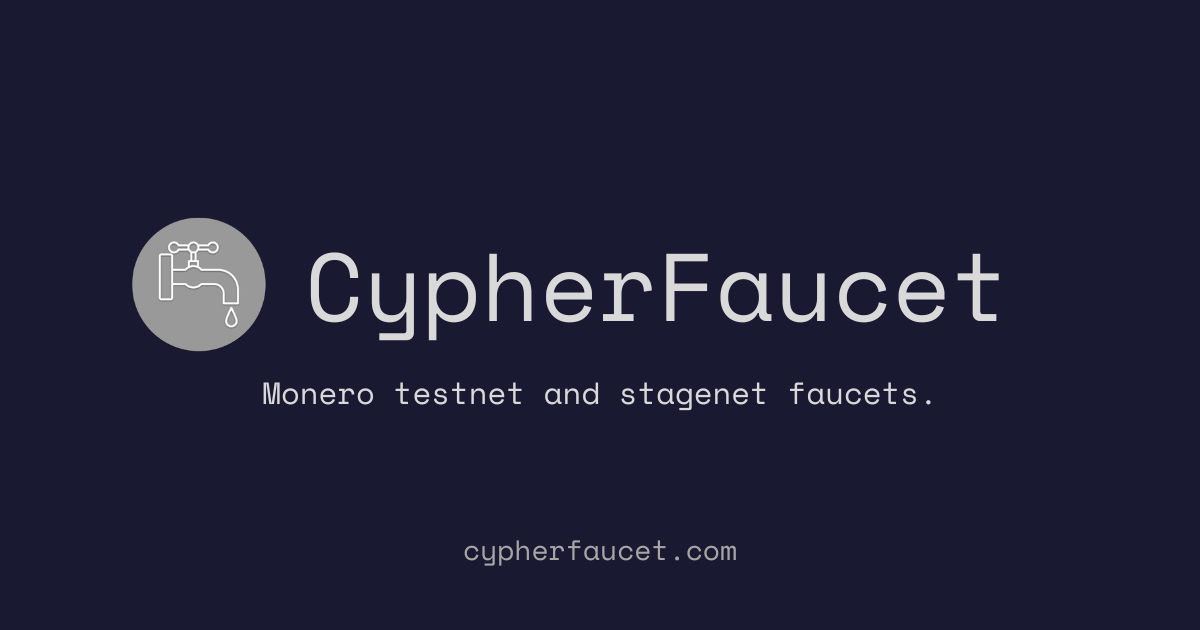
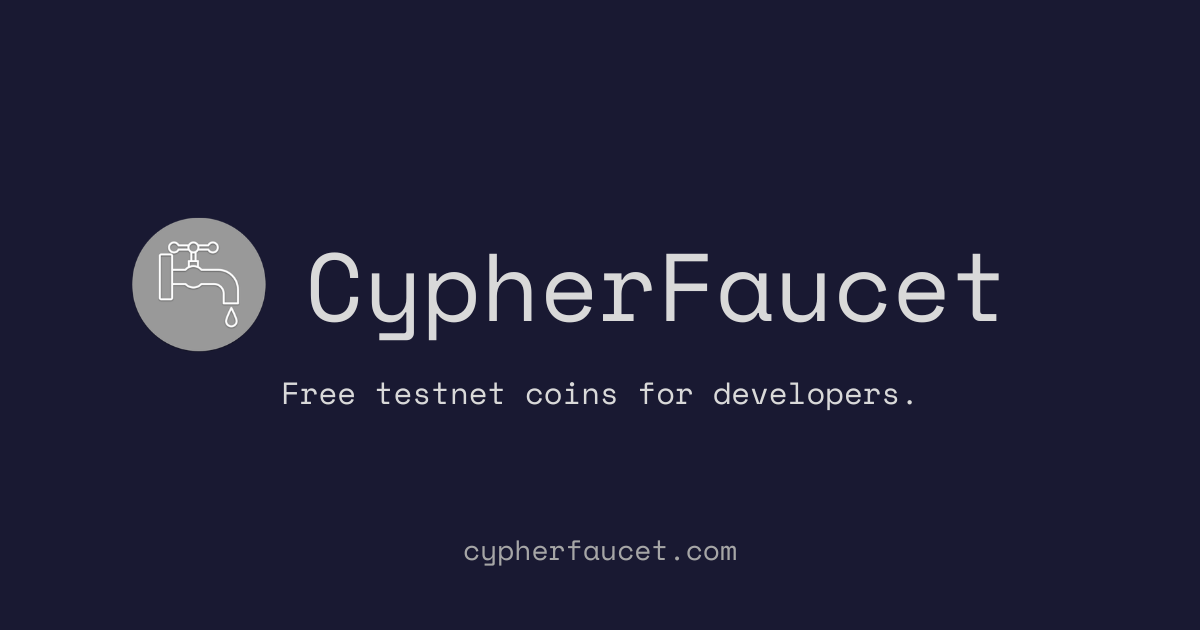
Update config options

Changed region(s): [[0.2158, 0.6032, 0.7708, 0.6635]]

diff --git a/config.example.php b/config.example.php
@@ -41,19 +41,30 @@ return [
     ],
 
     // Public link to your source, shown in the footer to satisfy AGPL section 13.
-    'source_url' => 'https://github.com/youruser/cypherfaucet',
+    'source_url' => 'https://github.com/Tech1k/cypherfaucet',
 
-    // Per-net "return unused coins" addresses, shown in the donate card and the
-    // out-of-coins message. Leave blank to hide the card.
+    // Testnet "return unused coins" addresses, shown in the recycle card and the
+    // out-of-coins message. Leave blank to hide the card. The t-prefix (tltc /
+    // tbtc) marks these as testnet, to keep them distinct from the mainnet
+    // donation addresses below.
     'donate_stagenet' => '',
     'donate_testnet'  => '',
-    'donate_ltc'      => '',
-    'donate_btc'      => '',
+    'donate_tltc'     => '',
+    'donate_tbtc'     => '',
 
-    // Optional: a mainnet XMR address enables a low-key "support the faucet"
-    // entry in the FAQ. Leave blank to keep donations off. The two extras below
-    // are shown only when mainnet_donate is also set.
-    'mainnet_donate'    => '',
-    'mainnet_openalias' => '', // e.g. '[email redacted]' (enable DNSSEC for the verified check)
-    'mainnet_qr'        => '', // e.g. '/assets/images/monero-qr.png' (your own QR; gitignored)
+    // Optional mainnet "support the faucet" donation addresses, shown as a
+    // low-key FAQ entry on each faucet. All blank by default, so the public code
+    // asks for nothing; set a coin's address to enable just that coin's entry.
+    // Each coin also takes an optional QR image path (your own).
+    'mainnet_xmr'    => '',
+    'mainnet_xmr_qr' => '', // e.g. '/assets/images/monero-qr.png'
+    'mainnet_ltc'    => '',
+    'mainnet_ltc_qr' => '',
+    'mainnet_btc'    => '',
+    'mainnet_btc_qr' => '',
+
+    // OpenAlias handle, shared across coins: a single FQDN resolves to the right
+    // address per coin via its DNS TXT records (enable DNSSEC for the verified
+    // check). Shown on every faucet whose mainnet address is set above.
+    'mainnet_openalias' => '', // e.g. '[email redacted]'
 ];

diff --git a/core-faucet.php b/core-faucet.php
@@ -73,9 +73,18 @@ define('TURNSTILE_SITEKEY', $config['turnstile_sitekey'] ?? '');
 $source_url    = $config['source_url'] ?? 'https://github.com/Tech1k/cypherfaucet';
 $expected_host = $config['expected_host'] ?? null; // optional captcha host pin
 
-// Per-coin "return unused coins" address, from config (donate_ltc / donate_btc).
-$donate_addr = $config["donate_{$coin}"] ?? '';
+// Per-coin "return unused testnet coins" address (donate_tltc / donate_tbtc),
+// falling back to the legacy donate_ltc / donate_btc keys if still in config.
+$donate_addr = $config['donate_' . strtolower($currency)] ?? $config["donate_{$coin}"] ?? '';
 $donate_safe = htmlspecialchars($donate_addr, ENT_QUOTES, 'UTF-8'); // display; keep raw for comparison
+
+// Optional mainnet "support the faucet" address for this coin (mainnet_ltc /
+// mainnet_btc) plus an optional QR, and a shared OpenAlias handle that resolves
+// per coin. Empty by default so the public code asks for nothing; set in
+// config.php to show a low-key FAQ entry.
+$mainnet_addr      = $config["mainnet_{$coin}"] ?? '';
+$mainnet_qr        = $config["mainnet_{$coin}_qr"] ?? '';
+$mainnet_openalias = $config['mainnet_openalias'] ?? '';
 
 // Bitcoin Core JSON-RPC. Creds from config (e.g. ltc_rpc_user / ltc_rpc_pass);
 // bind the daemon to 127.0.0.1. If the daemon has more than one wallet loaded
@@ -615,6 +624,22 @@ $height_display = "<span style=\"color: {$dot};\">&#9679;</span> " . $height_dis
                     <p>This can happen for many reasons. Usually, the captcha could fail if you're using a VPN or ad blocker, unsupported or out-of-date browser.</p>
                     <h3>What's the catch?</h3>
                     <p>There is no catch! I created this and my other faucets to give back to the community.</p>
+<?php if ($mainnet_addr !== '') {
+    $mainnet_safe    = htmlspecialchars($mainnet_addr, ENT_QUOTES, 'UTF-8');
+    $mainnet_qr_safe = htmlspecialchars($mainnet_qr, ENT_QUOTES, 'UTF-8');
+    $openalias_safe  = htmlspecialchars($mainnet_openalias, ENT_QUOTES, 'UTF-8');
+    $mainnet_ticker  = substr($currency, 1); // tLTC -> LTC, tBTC -> BTC
+?>
+                    <h3>Can I support the faucet?</h3>
+                    <p>This faucet is free and I run it to give back. If it has saved you time and you would like to help with server costs, <b>mainnet</b> <?php echo $mainnet_ticker; ?> donations are welcome and entirely optional:</p>
+<?php if ($mainnet_openalias !== '') { ?>
+                    <p>OpenAlias: <code class="mono"><?php echo $openalias_safe; ?></code> <button type="button" class="copybtn" data-copy="<?php echo $openalias_safe; ?>">Copy</button></p>
+<?php } ?>
+                    <p><code class="mono"><?php echo $mainnet_safe; ?></code> <button type="button" class="copybtn" data-copy="<?php echo $mainnet_safe; ?>">Copy</button></p>
+<?php if ($mainnet_qr !== '') { ?>
+                    <p><img src="<?php echo $mainnet_qr_safe; ?>" alt="<?php echo $mainnet_ticker; ?> donation QR code" style="width: 180px; max-width: 100%; height: auto; margin-top: 8px;"></p>
+<?php } ?>
+<?php } ?>
                 </div>
             </div>
             <br/>

diff --git a/xmr-faucet.php b/xmr-faucet.php
@@ -83,9 +83,11 @@ $source_url = $config['source_url'] ?? 'https://github.com/Tech1k/cypherfaucet';
 // Optional mainnet XMR address for the "support the faucet" FAQ entry. Empty by
 // default, so the public code doesn't ask for donations; set it in config.php
 // on your own deployment to enable the entry.
-$mainnet_donate = $config['mainnet_donate'] ?? '';
-$mainnet_openalias = $config['mainnet_openalias'] ?? ''; // optional OpenAlias handle (e.g. [email redacted])
-$mainnet_qr = $config['mainnet_qr'] ?? '';               // optional path to a donation QR image
+// New keys are mainnet_xmr* (with the legacy mainnet_donate/qr read as a
+// fallback). OpenAlias is shared across all coins, so it stays mainnet_openalias.
+$mainnet_donate = $config['mainnet_xmr'] ?? $config['mainnet_donate'] ?? '';
+$mainnet_openalias = $config['mainnet_openalias'] ?? ''; // shared OpenAlias handle, resolves per coin (e.g. [email redacted])
+$mainnet_qr = $config['mainnet_xmr_qr'] ?? $config['mainnet_qr'] ?? '';                       // optional path to a donation QR image
 
 // Per-net "return unused coins" address, from config (donate_stagenet /
 // donate_testnet). Empty when unset, so the public code ships no addresses; the

diff --git a/index.php b/index.php
@@ -68,7 +68,7 @@ $faucets = [
                 <br/>
                 <span style="font-size: 48px;"><strong>CypherFaucet</strong></span>
                 <br/>
-                <span style="font-size: 32px;">Monero, Litecoin, and Bitcoin testnet faucets.</span>
+                <span style="font-size: 32px;">Free testnet coins for developers.</span>
             </p>
 
             <div style="display: flex; flex-direction: column; align-items: center; gap: 12px;">